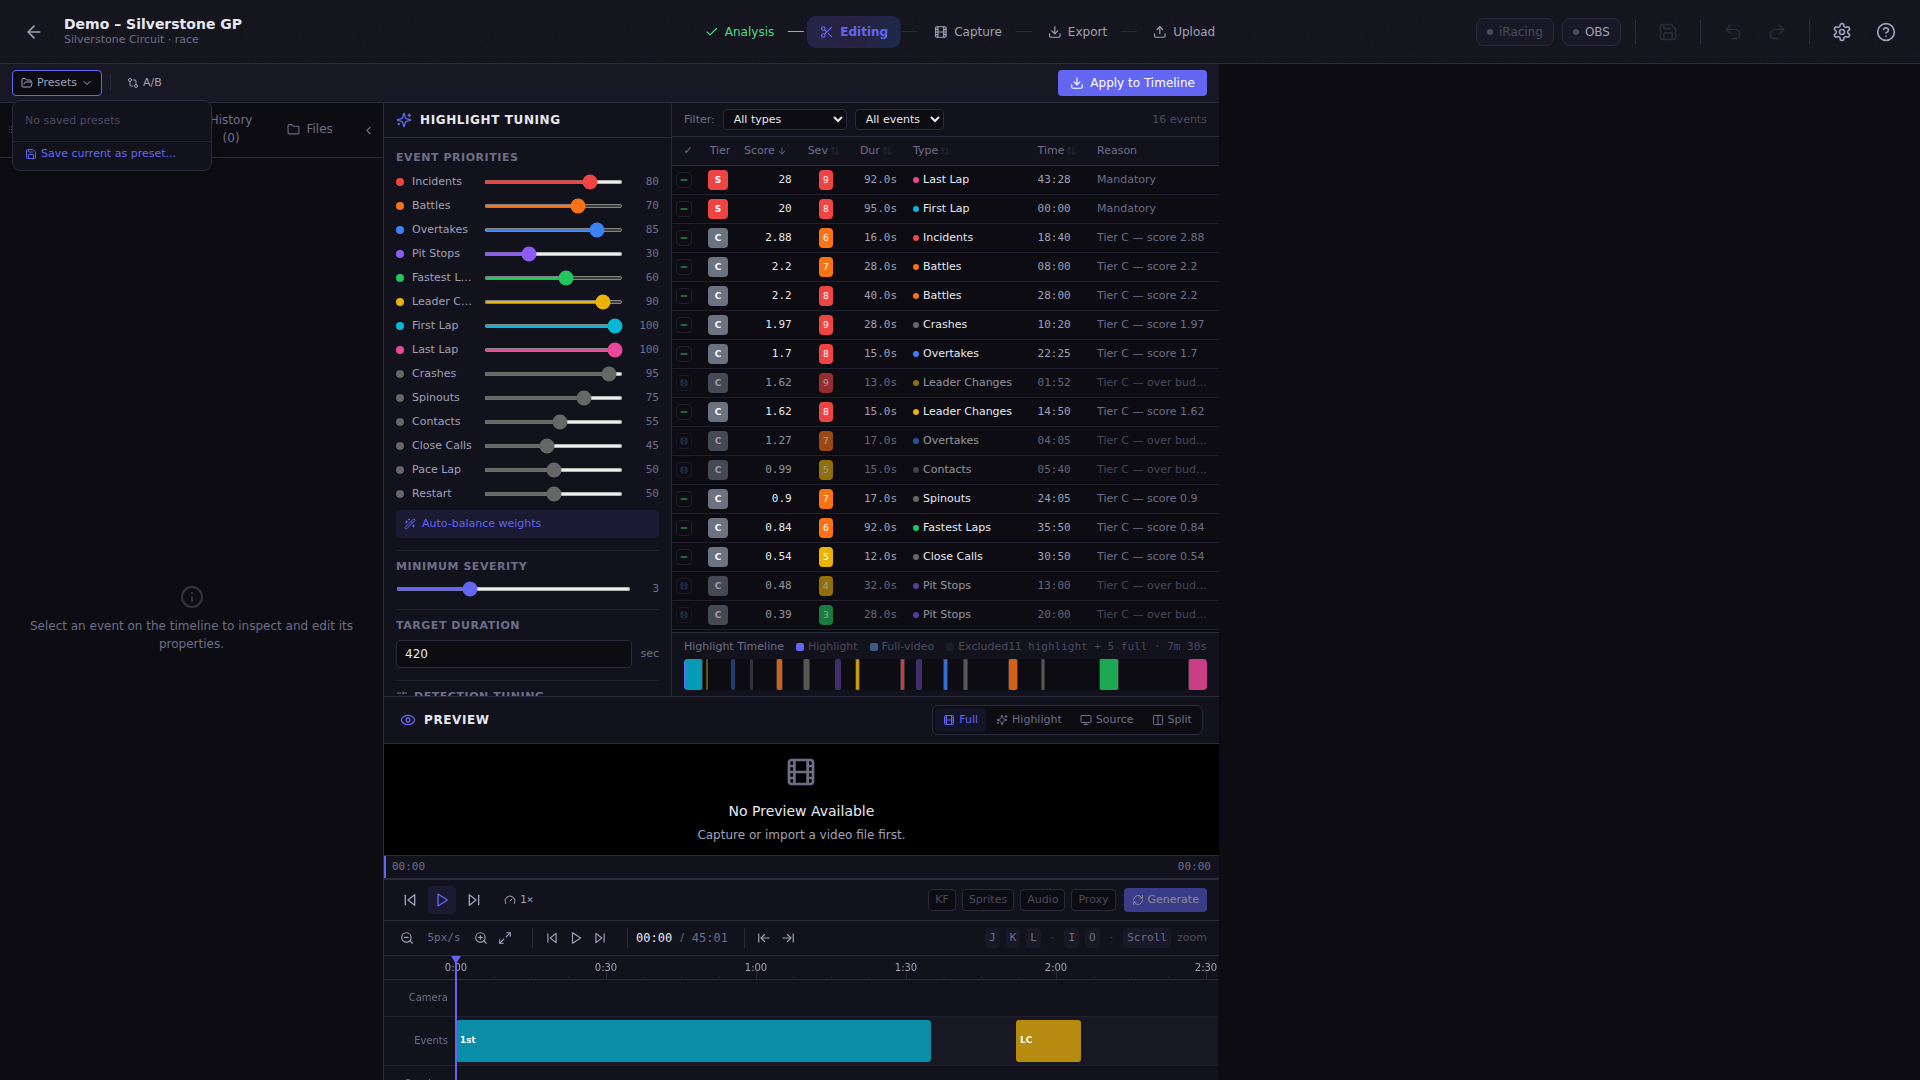
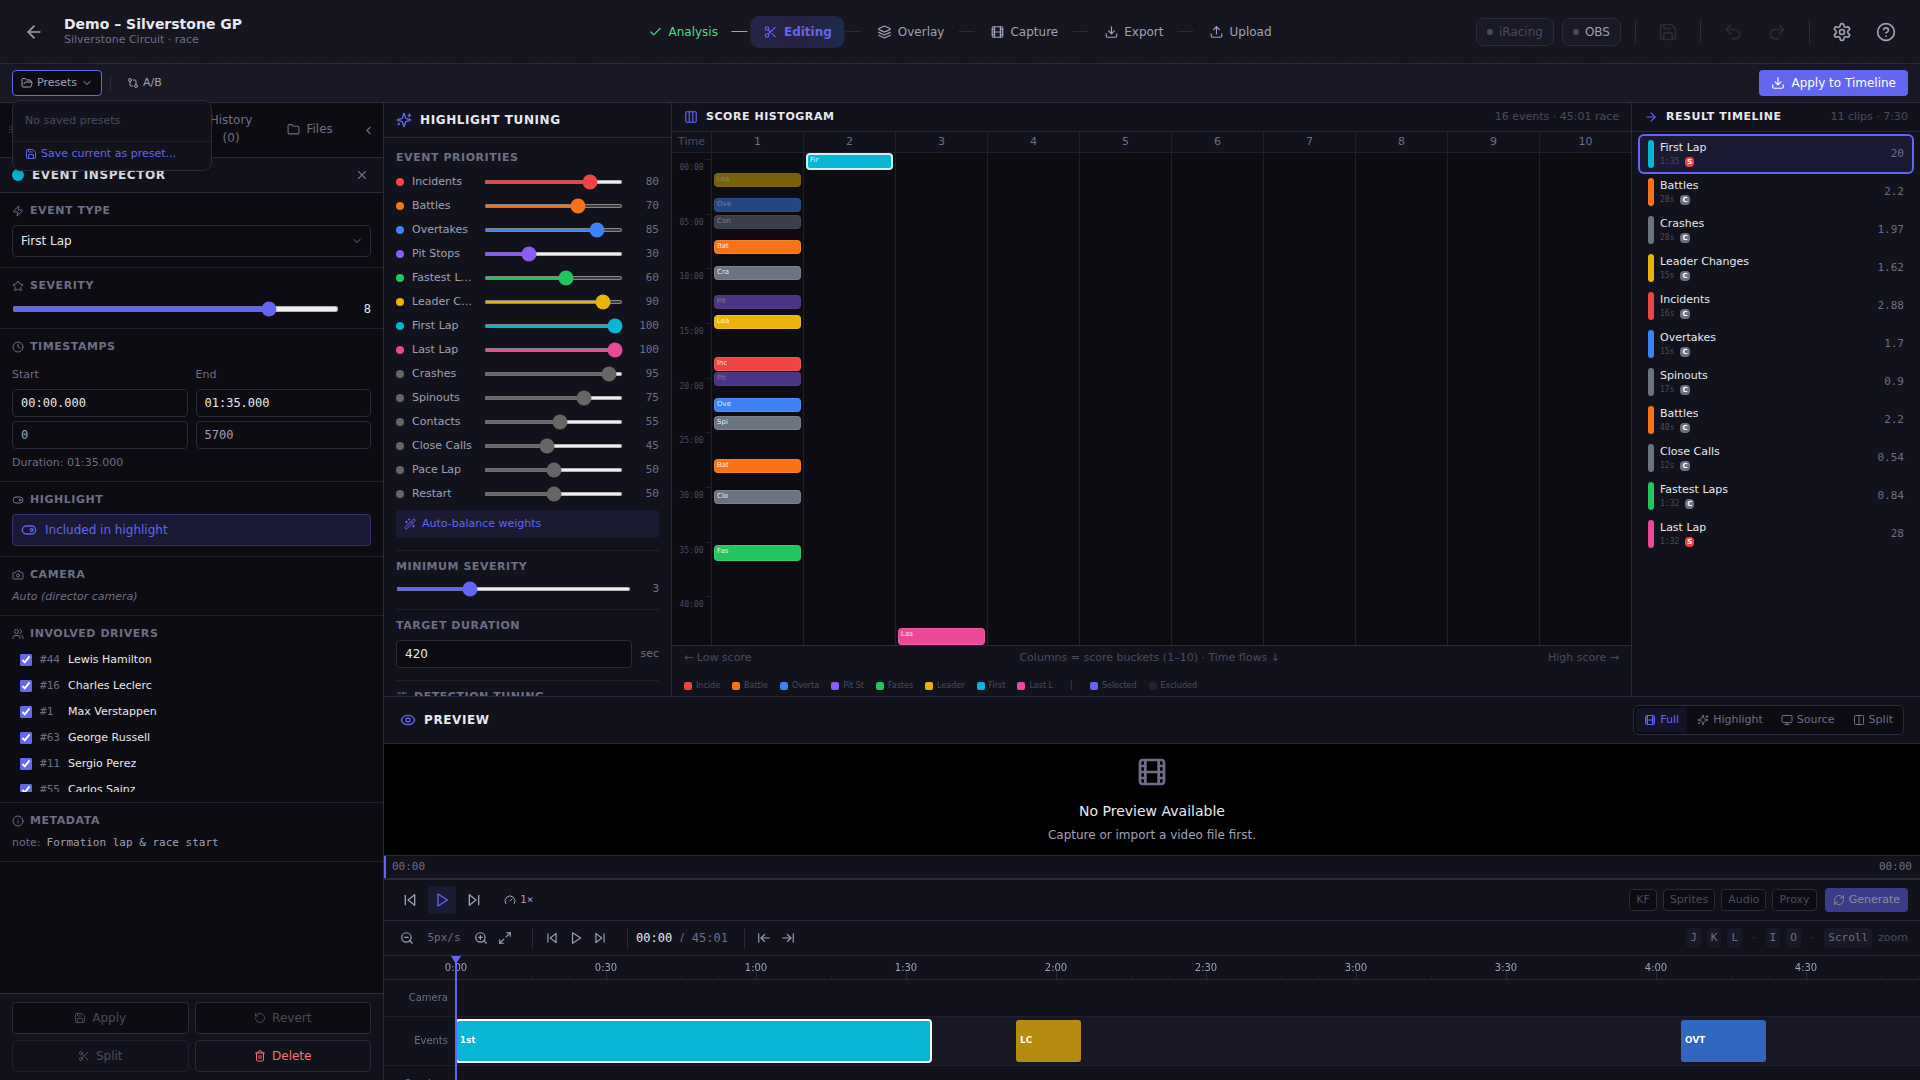
docs: replace all 15 screenshots with live app captures + update master-plan/roadmap for histogram UI
Agent-Logs-Url: https://github.com/jamesdhooks/league-replay-studio/sessions/309086b3-d287-480b-a324-0087e959a27a

diff --git a/documentation/master-plan.md b/documentation/master-plan.md
@@ -1982,10 +1982,12 @@ src/
 │   │   └── PipelineStepCard.jsx   # Individual pipeline step status card
 │   ├── highlights/
 │   │   ├── HighlightSuite.jsx     # Main highlight editing suite container
+│   │   ├── HighlightPanel.jsx     # Top-level editing panel (config bar + sidebar + histogram + timeline)
+│   │   ├── HighlightHistogram.jsx # Histogram-based event organizer (score columns × time rows)
 │   │   ├── RuleWeightPanel.jsx    # Interactive rule weight sliders
 │   │   ├── EventSelectionTable.jsx # Sortable/filterable event inclusion table
 │   │   ├── HighlightMetrics.jsx   # Live metrics dashboard (duration, coverage, balance)
-│   │   ├── HighlightTimeline.jsx  # Condensed highlight reel timeline preview
+│   │   ├── HighlightTimeline.jsx  # Legacy condensed timeline (superseded by HighlightHistogram)
 │   │   └── ConfigComparison.jsx   # A/B compare mode for different weight configs
 │   ├── settings/
 │   │   ├── SettingsPanel.jsx      # Global settings
@@ -2832,58 +2834,45 @@ The Preset Designer (`PresetDesigner.jsx`) provides:
 
 The highlight editing suite is the **primary differentiator** of League Replay Studio. Rather than a black-box algorithm that produces a fixed highlight reel, LRS exposes the entire event selection pipeline as an interactive, tuneable, real-time editing environment.
 
-**Core Concept:** The user can see exactly why each event was selected, adjust the algorithm's weights and thresholds on the fly, make manual overrides, and watch the highlight reel update in real-time with live-updating metrics.
+**Core Concept:** The UI is a visual map of **Time (vertical) × Importance (horizontal)** — a histogram-based event organizer that lets you see the race structure instantly, understand algorithm decisions at a glance, and edit highlights intuitively via direct manipulation.
 
 ```
-┌────────────────────────────────────────────────────────────────────────┐
-│                    HIGHLIGHT EDITING SUITE                              │
-├────────────────────────────────────────────────────────────────────────┤
-│                                                                        │
-│  ┌──────────────────────────┐  ┌────────────────────────────────────┐ │
-│  │  RULE WEIGHT TUNING      │  │  LIVE METRICS DASHBOARD            │ │
-│  │                          │  │                                    │ │
-│  │  Incidents   ████████░░  │  │  Total Duration:  5:23 / 5:00 ⚠  │ │
-│  │  Battles     ██████░░░░  │  │  Events Included: 14 / 38         │ │
-│  │  Overtakes   █████░░░░░  │  │  Coverage:        62% of race     │ │
-│  │  First Lap   ██████████  │  │                                    │ │
-│  │  Last Lap    ██████████  │  │  By Type:                          │ │
-│  │  Pit Stops   ██░░░░░░░░  │  │  ├── Incidents:  4  (1:12)        │ │
-│  │  Leader      ████░░░░░░  │  │  ├── Battles:    5  (2:45)        │ │
-│  │  Fastest Lap ███░░░░░░░  │  │  ├── Overtakes:  2  (0:34)        │ │
-│  │  Preferred   ██████░░░░  │  │  ├── First Lap:  1  (0:28)        │ │
-│  │                          │  │  ├── Last Lap:   1  (0:24)        │ │
-│  │  Min Severity: ████░░ 4  │  │  └── Other:      1  (0:00)        │ │
-│  │  Target Duration: 5:00   │  │                                    │ │
-│  │                          │  │  Balance Score:   ★★★★☆            │ │
-│  │  [Reprocess Now]         │  │  Pacing Score:    ★★★★★            │ │
-│  │  [Auto-Balance]          │  │  Driver Coverage:  78%             │ │
-│  └──────────────────────────┘  └────────────────────────────────────┘ │
-│                                                                        │
-│  ┌──────────────────────────────────────────────────────────────────┐ │
-│  │  EVENT SELECTION TABLE                                     [⊞] │ │
-│  │                                                                  │ │
-│  │  ☑ │ Type     │ Lap │ Severity │ Duration │ Score │ Reason      │ │
-│  │  ──┼──────────┼─────┼──────────┼──────────┼───────┼──────────── │ │
-│  │  ☑ │ 🟢 Start  │  1  │  10/10   │  0:28    │  100  │ Mandatory   │ │
-│  │  ☑ │ 🔴 Crash  │  3  │   8/10   │  0:18    │   87  │ High sev.   │ │
-│  │  ☑ │ ⚔ Battle │  5  │   7/10   │  0:42    │   76  │ P3/P4 close │ │
-│  │  ☐ │ 🏁 Pit    │  8  │   3/10   │  0:15    │   32  │ Below cutoff│ │
-│  │  ☑ │ ⚔ Battle │ 11  │   9/10   │  0:55    │   91  │ Lead change │ │
-│  │  ☐ │ 🟡 Spin   │ 14  │   4/10   │  0:12    │   38  │ Below cutoff│ │
-│  │  ☑ │ 🏆 Finish │ 22  │  10/10   │  0:24    │  100  │ Mandatory   │ │
-│  │  ...                                                             │ │
-│  │                                                                  │ │
-│  │  [Select All] [Deselect All] [Invert] [Sort by: Score ▾]       │ │
-│  └──────────────────────────────────────────────────────────────────┘ │
-│                                                                        │
-│  ┌──────────────────────────────────────────────────────────────────┐ │
-│  │  HIGHLIGHT TIMELINE PREVIEW                                      │ │
-│  │  ║▓START▓║░░░║▓CRASH▓║░░░║▓▓BATTLE▓▓║░░║▓▓BATTLE▓▓║░░║▓FIN▓║  │ │
-│  │  0:00   0:28        1:15     1:57        3:34       4:52  5:23  │ │
-│  │  ◁ ▷ ⏸ ⏮ ⏭                               [Preview Highlight]  │ │
-│  └──────────────────────────────────────────────────────────────────┘ │
-└────────────────────────────────────────────────────────────────────────┘
+┌──────────────────────────────────────────────────────────────────────────────┐
+│  CONFIG BAR  [Presets ▾]  [A/B]                    [Apply to Timeline →]    │
+├────────┬──────────────────┬────────────────────────────────┬─────────────────┤
+│        │  HIGHLIGHT       │   SCORE HISTOGRAM              │  RESULT         │
+│ EVENTS │  TUNING          │                                │  TIMELINE       │
+│ Inspec │                  │  1 │ 2 │ 3 │ 4 │ 5 │…│ 9 │10  │                 │
+│ History│  Incidents  ───  │    │   │   │   │   │ │[S]│    │  [First Lap]    │
+│ Files  │  Battles    ──   │[C] │   │   │   │   │ │   │    │  1:35 · S · 20  │
+│        │  Overtakes  ─── │    │[C]│   │   │   │ │   │    │  ──────────────  │
+│        │  Pit Stops  ─   │    │   │[C]│   │   │ │   │    │  [Battles]      │
+│        │  ...            │    │   │   │[C]│   │ │   │    │  28s · C · 2.2  │
+│        │  Min Sev: 3     │    │   │   │   │[C]│ │   │    │  ──────────────  │
+│        │  Target: 420s   │    │   │   │   │   │ │   │[S] │  [Last Lap]     │
+│        │                  │                                │  1:32 · S · 28  │
+│        │  METRICS         │  ← Low score  High score →    │                 │
+│        │  11 clips · 7:30 │  Columns = score buckets 1–10 │                 │
+│        │  Coverage: 62%   │  Time flows ↓                 │                 │
+├────────┴──────────────────┴────────────────────────────────┴─────────────────┤
+│  PREVIEW                                                                     │
+├──────────────────────────────────────────────────────────────────────────────┤
+│  NLE TIMELINE  (Camera · Events tracks, full race, zoomable)                │
+└──────────────────────────────────────────────────────────────────────────────┘
 ```
+
+**Score Histogram (Left Panel):**
+- 10 columns (score buckets 1–10, low→high left→right)
+- Time flows top→bottom (race start → finish) on the vertical axis
+- Each event is a colour-coded tile: vertical position = race time, column = score bucket, height ∝ duration
+- Tile opacity encodes inclusion state: full opacity = selected, 50 % = full-video, 20 % = excluded
+- Tier S/A/B/C badges, narrative-anchor stars (★), PIP diagonal stripes
+- Time gutter with lap/minute markers; column headers labelled 1–10
+
+**Result Timeline (Right Panel):**
+- Vertical list of selected events in chronological order
+- Each entry shows: colour strip, event type, duration, tier badge, score, and segment type (event / PIP / B-roll / transition)
+- Updated immediately on any parameter change or manual override
 
 **Rule Weight Tuning:**
 - Interactive sliders for each event type's priority weight (0–100)
@@ -3035,7 +3024,7 @@ Each section carries:
 - `clip_padding` — Seconds of pre-roll before each clip (trimmed post-capture)
 - `editable` — Whether the user can adjust timing/camera in the frontend
 
-The `generate_video_script()` function in `scoring_engine.py` wraps `generate_highlights()` with intro, qualifying, and results B-roll sections. The frontend shows these as color-coded regions on both the HighlightTimeline and the NLE TimelineCanvas.
+The `generate_video_script()` function in `scoring_engine.py` wraps `generate_highlights()` with intro, qualifying, and results B-roll sections. The frontend shows these as color-coded regions in both the **Score Histogram** result timeline and the NLE TimelineCanvas.
 
 ### 7.8.4 Script-Based Capture Engine
 

diff --git a/documentation/screenshots/README.md b/documentation/screenshots/README.md
@@ -24,11 +24,13 @@ The Events sidebar listing all 16 seeded race events: First Lap, Leader Changes,
 Overtakes, Battles, Crash, Incident, Spinout, Contact, Close Call, Pit Stops,
 Fastest Lap, and Last Lap — each with driver names, timestamp and severity badge.
 
-### 4. Editing — Highlight tuning + timeline
+### 4. Editing — Histogram-based event organizer
 `04_editing_highlights.png`  
 Full highlight-editing suite: event-priority sliders (Incidents 80, Battles 60,
-Overtakes 85 …), minimum-severity control, 420 s target duration, scored-events
-table with Tier S/A/B/C badges, and the NLE-style timeline at the bottom.
+Overtakes 85 …), minimum-severity control, 420 s target duration — alongside the
+**Score Histogram** (10 score-bucket columns, time flows top→bottom, events as
+coloured tiles) and the **Result Timeline** (selected events in sequence with
+tier badges, duration, and score). NLE timeline and preview panel at the bottom.
 
 ### 5. Capture
 `05_capture_panel.png`  
@@ -50,9 +52,12 @@ YouTube / platform upload stage placeholder.
 Application settings with tabs for General, Camera Defaults, Encoding, AI / LLM,
 YouTube, Hotkeys, Pipeline, and Setup Wizard.
 
-### 9. Editing — Event Inspector
+### 9. Editing — Event Inspector with Histogram
 `09_editing_inspector.png`  
-Editing view with the Inspector sidebar active showing per-event detail.
+Editing view with the Inspector sidebar active showing per-event detail for the
+selected **First Lap** event: type, severity (8), timestamps (00:00 → 01:35),
+Highlight toggle, camera, involved drivers (all 20), and metadata. The Score
+Histogram and Result Timeline remain visible to the right.
 
 ### 10. Highlight Presets
 `10_highlight_presets.png`  
@@ -65,30 +70,33 @@ Presets dropdown for saving / loading named highlight configurations.
 All templates rendered at 1920 × 1080 with the Silverstone GP sample frame data
 (Lewis Hamilton P1, Lap 8/15, green flag, 8-car standings tower).
 
-### 11. Broadcast overlay
+### 11. Overlay — Template library
 `11_overlay_broadcast_template.png`  
-Full broadcast overlay: top header (series + track + lap counter), right-side
-standings tower (P1–P8 with gaps), bottom-left driver nameplate with best-lap time.
+Overlay step showing the Preset Design Suite with the 5 built-in templates
+(Broadcast, Minimal, Classic, Cinematic, Blank) as selectable cards with
+resolution badges and edit/duplicate/export actions.
 
-### 12. Minimal overlay
+### 12. Overlay — Broadcast template editor
 `12_overlay_minimal_template.png`  
-Clean minimal overlay: large position badge, driver name, current/total laps, and
-a single last-lap time strip.
+Monaco Editor split-pane for the Broadcast template (HTML/Tailwind source on the
+left, live preview canvas on the right with zoom controls).
 
-### 13. Cinematic intro overlay
+### 13. Overlay — Cinematic template editor
 `13_overlay_cinematic_intro.png`  
-Full-screen title card for the intro section: series name and track name in
-high-contrast typography over a transparent background.
+Template editor open on the **Cinematic** lower-third overlay: Monaco editor
+pane with Variables / Animations toolbar, and the preview canvas at 16 % zoom.
 
-### 14. Classic overlay
+### 14. Overlay — Classic template editor
 `14_overlay_classic_template.png`  
-Traditional timing-board layout: header bar with series + lap + session time,
-classic leaderboard table (P · Driver · Gap), and driver nameplate strip.
+Template editor open on the **Classic** timing-board overlay showing the Monaco
+source panel and the 1920 × 1080 preview area.
 
-### 15. Full editing view (scrolled)
+### 15. Full editing view (full page)
 `15_pipeline_overview.png`  
 Full-page capture of the Editing panel showing the complete highlight-tuning
-column, scored-events table, and the NLE timeline with Camera and Events tracks.
+column (sliders + metrics), the Score Histogram with all 16 events distributed
+across 10 score-bucket columns, the Result Timeline with 11 selected clips, and
+the NLE timeline with Camera and Events tracks at the bottom.
 
 ---
 

diff --git a/documentation/roadmap.md b/documentation/roadmap.md
@@ -303,6 +303,14 @@ Canvas-based multi-track timeline: Camera, Events, Overlays, Cuts, Audio tracks.
 - [x] A/B compare mode saves two configurations and toggles between them
 - [x] Highlight timeline preview shows the condensed highlight reel with event segments
 - [x] Clicking an event in the table jumps the timeline playhead to that moment
+- [x] Score Histogram: 10 score-bucket columns (1–10), time flows top→bottom, events as colour-coded tiles
+- [x] Each histogram tile positioned vertically by race time, height proportional to duration
+- [x] Tile opacity encodes inclusion state: full = selected, 50 % = full-video, 20 % = excluded
+- [x] Result Timeline panel shows selected events in chronological sequence with tier badge, duration, and score
+- [x] Result Timeline renders PIP, transition (CUT/FADE/WHIP), and B-roll segment types
+- [x] Hovering a histogram tile highlights the same event in the Result Timeline and vice versa
+- [x] Clicking a histogram tile seeks the playhead and opens the Event Inspector
+- [x] Right-clicking a tile cycles the override state: auto → highlight → full-video → exclude
 - [x] Multi-pass scoring pipeline with 8-stage formula and tier classification (S/A/B/C)
 - [x] Bucket-based timeline allocation (intro/early/mid/late) with per-bucket budgets
 - [x] N-car battle chain detection with chain_length in metadata
